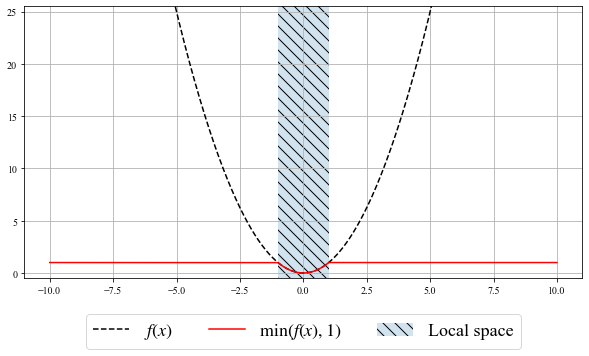
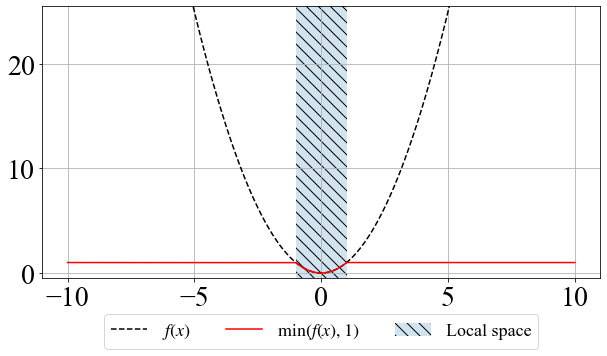
[doc] Add the relation of length vs variance

diff --git a/README.md b/README.md
@@ -69,11 +69,14 @@ $$
 $$
 
 $$
-\sigma_{\mathrm{old}}^2 = \frac{1}{2L}\int_{-L}^{L} (g(x) - \mu)^2 dx = \frac{1}{2L} \biggl(\frac{2}{5} + 2(L - 1) \biggr) -\mu^2 = \frac{4}{3}\biggl( \frac{2}{5L} - \frac{1}{3L^2} \biggr).
+\sigma_{\mathrm{old}}^2 = \frac{1}{2L}\int_{-L}^{L} (g(x) - \mu)^2 dx = \frac{1}{2L} \biggl(\frac{2}{5} + 2(L - 1) \biggr) -\mu^2 = \frac{4}{3L}\biggl( \frac{2}{5} - \frac{1}{3L} \biggr).
 $$
 
 This example implies that clipping functions, which is quite conventional, is biased depending on the search space design, i.e. $L$ in this example.
 On the other hand, our method yields unbiased variance for any definitions of the search space.
+As can be seen in the figure below, the conventional version yields zero-variance as $L$ goes to the infinity.
+
+<img src="figs/length-vs-variance.png" alt="">
 
 ## Install
 
